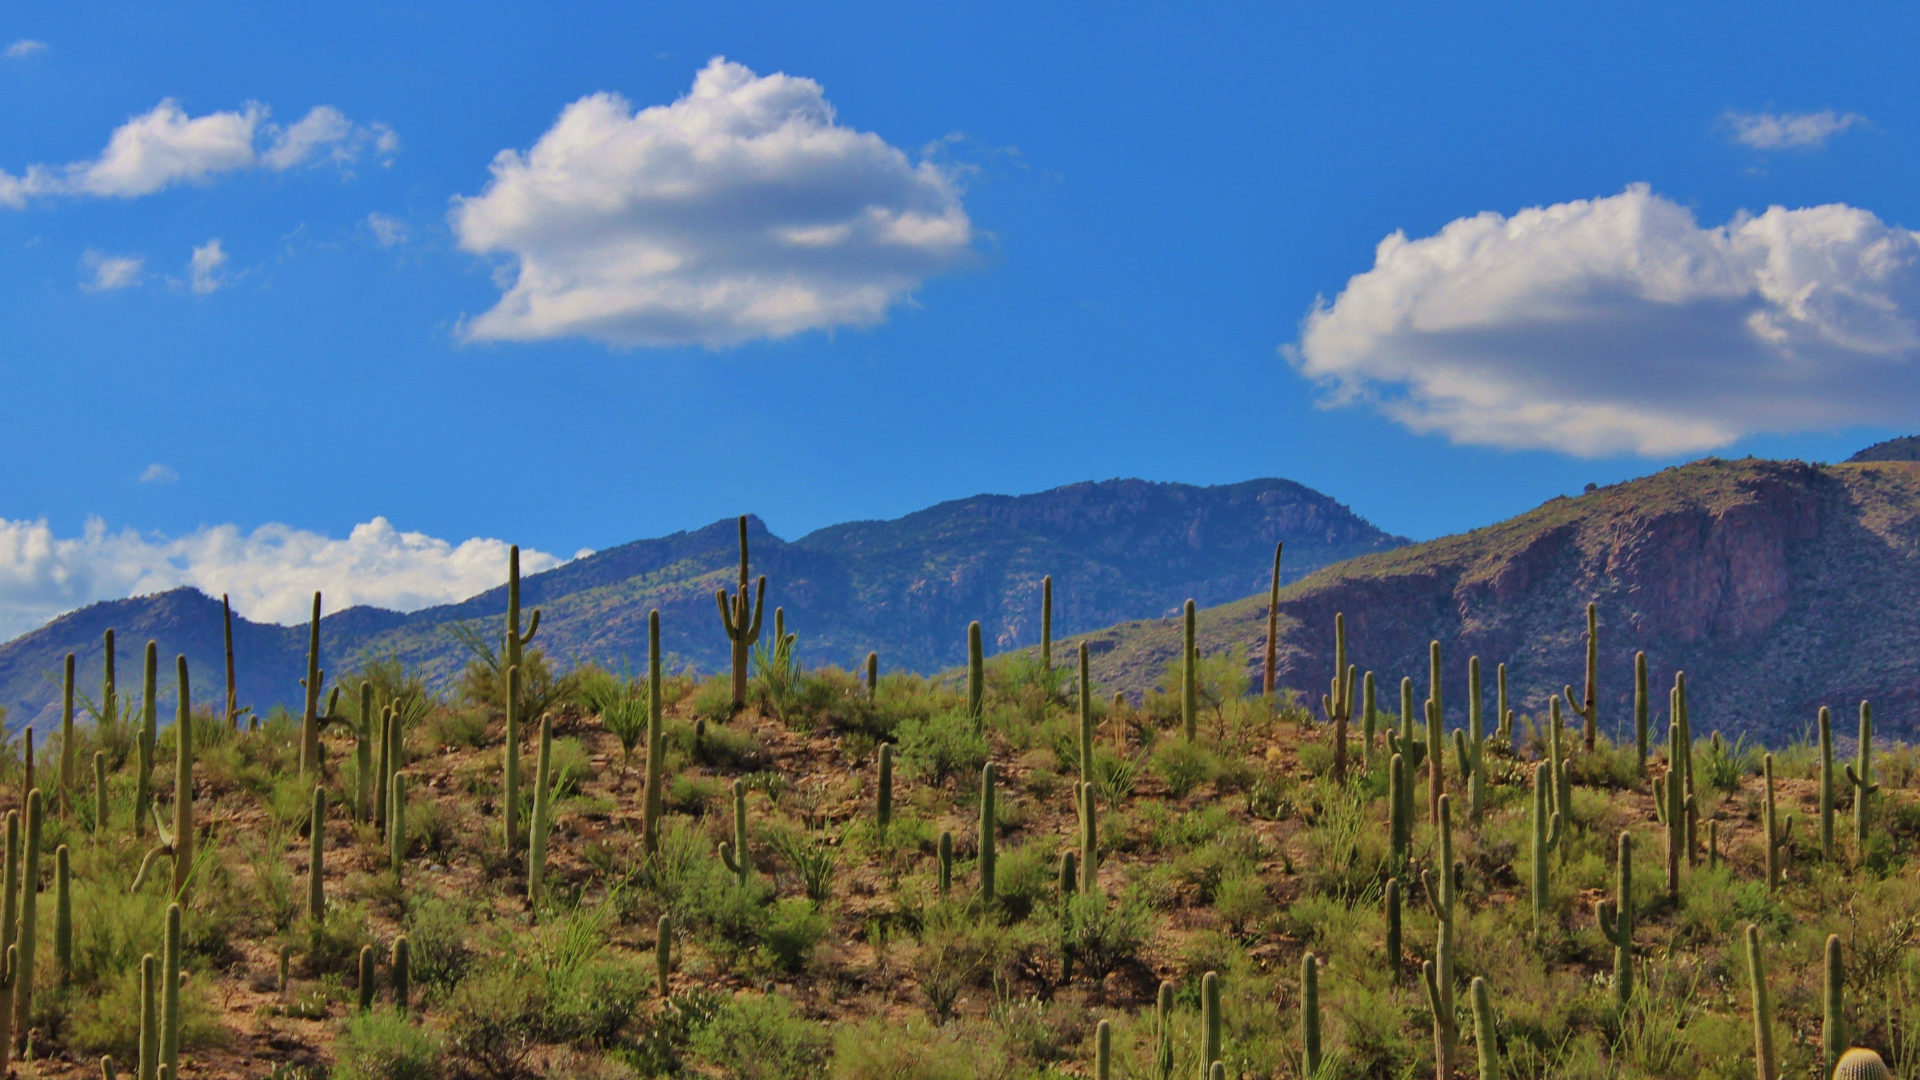
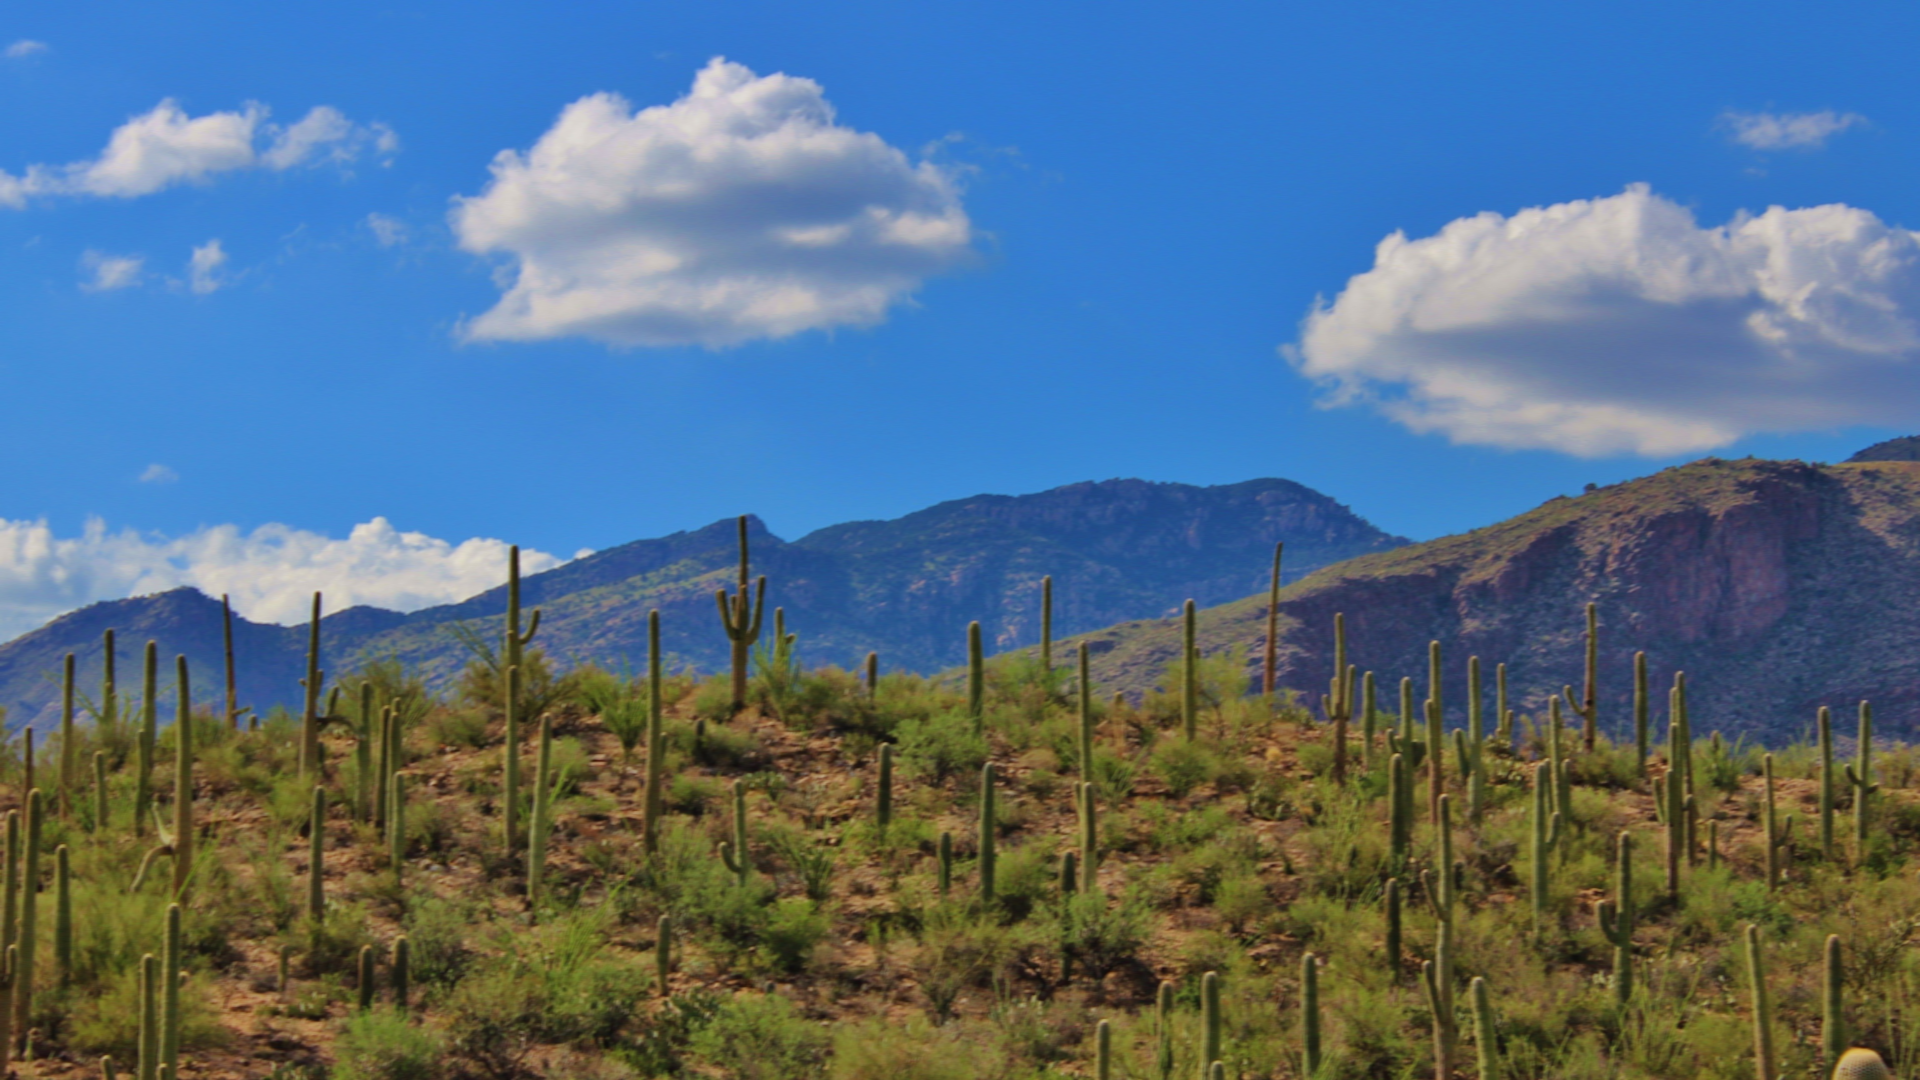
changes

diff --git a/about.html b/about.html
@@ -177,11 +177,13 @@
             <div class="row g-5">
                 <div class="col-lg-6 pt-4" style="min-height: 400px;">
                     <div class="position-relative h-100 wow fadeIn" data-wow-delay="0.1s">
-                        <img class="position-absolute img-fluid w-100 h-100" src="img/Rivero.JPG" style="object-fit: cover;" alt="">
-                      <!--  <div class="position-absolute top-0 end-0 mt-n4 me-n4 py-4 px-5" style="background: rgba(0, 0, 0, .08);">
-                            <h1 class="display-4 text-white mb-0">15 <span class="fs-4">Years</span></h1>
-                            <h4 class="text-white">Experience</h4>
-                        </div>-->
+                        <div class="about-image"> 
+                            <img class="position-absolute img-fluid w-100 h-100" src="img/Rivero.JPG" style="object-fit: cover;" alt="">
+                        <!--  <div class="position-absolute top-0 end-0 mt-n4 me-n4 py-4 px-5" style="background: rgba(0, 0, 0, .08);">
+                                <h1 class="display-4 text-white mb-0">15 <span class="fs-4">Years</span></h1>
+                                <h4 class="text-white">Experience</h4>
+                            </div>-->
+                        </div>   
                     </div>
                 </div>
                 <div class="col-lg-6">

diff --git a/contact.html b/contact.html
@@ -115,7 +115,7 @@
 
 
     <!-- Page Header Start -->
-    <div class="container-fluid page-header mb-5 p-0" style="background-image: url(img/contactus.png);">
+    <div class="container-fluid page-header mb-5 p-0" style="background-image: url(img/contact.png);">
         <div class="container-fluid page-header-inner py-5">
             <div class="container text-center">
                 <h1 class="display-3 text-white mb-3 animated slideInDown">Contact</h1>
@@ -135,14 +135,16 @@
     <div class="container-xxl py-5">
         <div class="container">
             <div class="text-center wow fadeInUp" data-wow-delay="0.1s">
+
+                <h6 class="text-primary text-uppercase">// Contact //</h6>
+                <h1 class="mb-5">Contact For Any Query</h1>
                 <div class="logo">
                     <a href="index.html">
                         <img src="img/logo/Rivero_logo - header.png" alt="">
                     </a>
                 </div>
-                <h6 class="text-primary text-uppercase">// Contact //</h6>
-                <h1 class="mb-5">Contact For Any Query</h1>
             </div>
+            
             <div class="row g-4 justify-content-center">
                <!-- <div class="col-12">
                     <div class="row gy-4">

diff --git a/issues.html b/issues.html
@@ -135,8 +135,14 @@
     <div class="container-xxl service py-5">
         <div class="container">
             <div class="text-center wow fadeInUp" data-wow-delay="0.1s">
+
                 <h6 class="text-primary text-uppercase">// Issues //</h6>
-                <h1 class="mb-5">Coming Soon...</h1>
+                <h1 class="mb-5">Coming Soon...</h1></br></br>
+                <div class="logo">
+                    <a href="index.html">
+                        <img src="img/logo/Rivero_logo - header.png" alt="">
+                    </a>
+                </div>
             </div>
          <!--   <div class="row g-4 wow fadeInUp" data-wow-delay="0.3s">
                 <div class="col-lg-4">

diff --git a/index.html b/index.html
@@ -119,7 +119,7 @@
         <div id="header-carousel" class="carousel slide" data-bs-ride="carousel">
             <div class="carousel-inner">
                 <div class="carousel-item active">
-                    <img class="w-100" src="img/home5 (2).png" alt="Image">
+                    <img class="w-100" src="img/home.png" alt="Image">
                     <div class="carousel-caption d-flex align-items-center">
                         <div class="container">
                             <div class="row align-items-center justify-content-center justify-content-lg-start">

diff --git a/css/style.css b/css/style.css
@@ -192,7 +192,8 @@
 }
 
 .about-image img{
-    height: 107% !important;
+    height: 115% !important;
+    margin-top: -40px !important;
     
 }
 
@@ -288,7 +289,7 @@
 
 .service h6 {
     color: #ed1c24 !important;
-    font-size: 35px;
+
 }
 
 /*** Booking ***/
